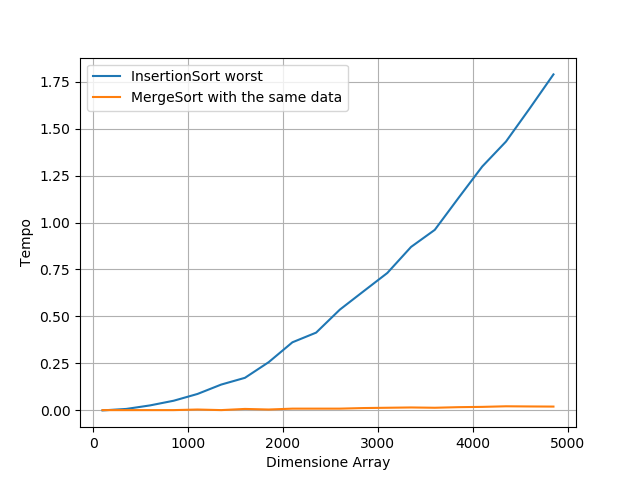
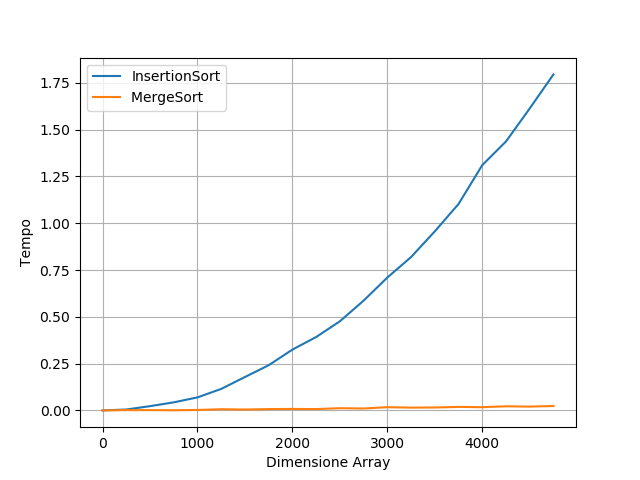
Perfect

diff --git a/Main.py b/Main.py
@@ -19,9 +19,9 @@ mergeSortTimeReverse = []
 nodeCounter = []
 
 dimension = 5000
-repetition = 10
+repetition = 20
 step = -1
-for j in range(100, dimension, 250):
+for j in range(0, dimension, 250):
     step += 1
     print("Parliamo di ", j, "/", dimension, "%", j*100/dimension)
     insertionTimePeggiore = []
@@ -76,8 +76,8 @@ for j in range(100, dimension, 250):
 print(100, "%!!!!!!!")
 
 # WorstCase
-plt.plot(nodeCounter, finalWorstInsertionTime, label="InsertionSort worst")
-plt.plot(nodeCounter, finalReverseMergeSort, label="MergeSort with the same data")
+plt.plot(nodeCounter, finalWorstInsertionTime, label="InsertionSort")
+plt.plot(nodeCounter, finalReverseMergeSort, label="MergeSort ")
 plt.legend()
 plt.xlabel('Dimensione Array')
 plt.ylabel('Tempo')
